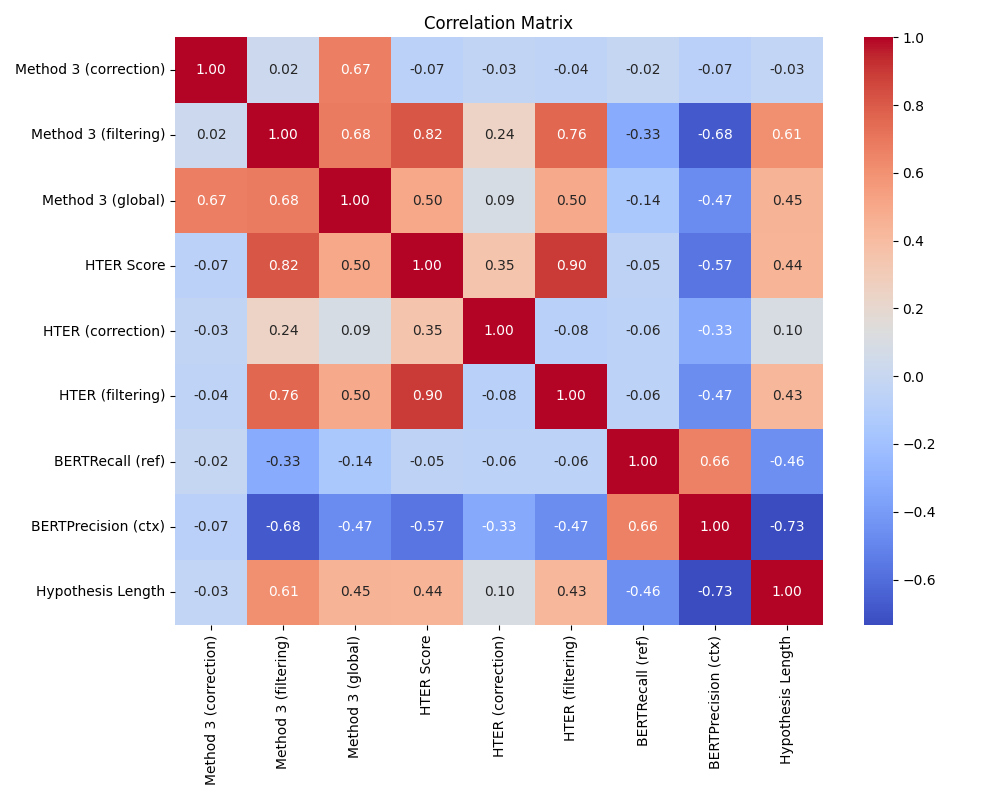
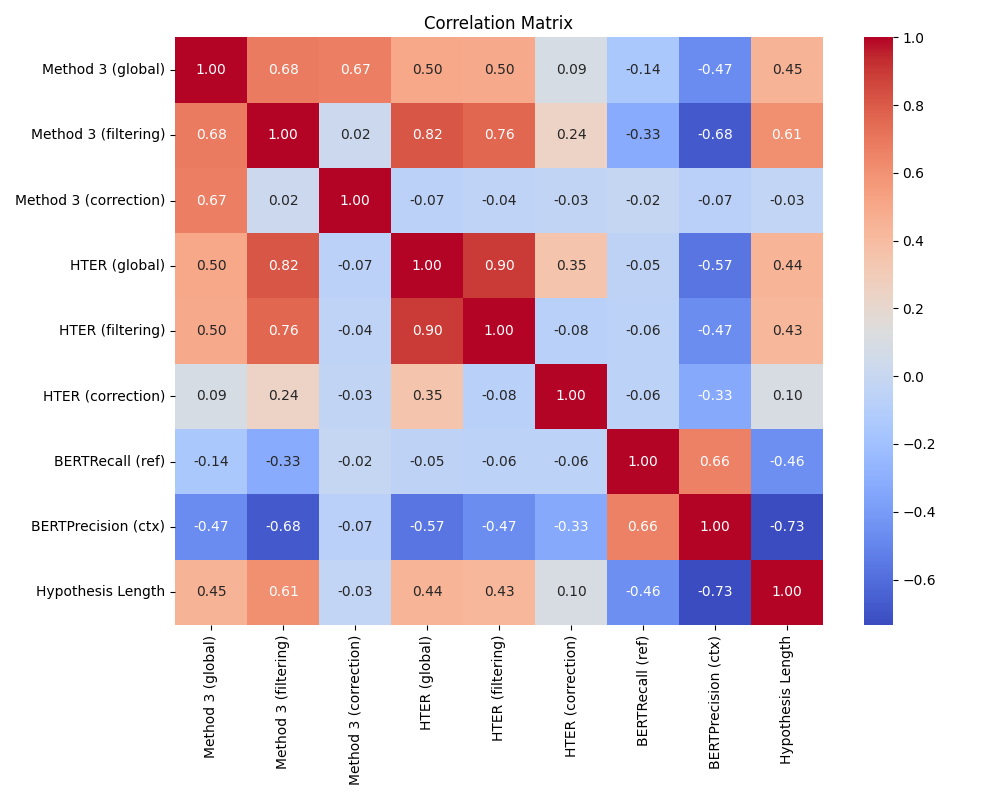
results analysis

diff --git a/src/aiter_lab/analysis/results_analysis/main.py b/src/aiter_lab/analysis/results_analysis/main.py
@@ -1,15 +1,16 @@
-from .results_analysis import scores_mean_tab, boxplot, correlation_matrix, smape_ter
+from .results_analysis import scores_mean_tab, boxplot, correlation_matrix, smape_ter, plot_error, correlation_matrix_per_col
 from ...config import DATA_DIR, RESULTS_ANALYSIS_DIR
 import pandas as pd
 
 if __name__ == "__main__":
     df = pd.read_csv(RESULTS_ANALYSIS_DIR / "method3_fullresults.csv")
+    # plot_error(df, ["score", "cor_score", "ot_score"], RESULTS_ANALYSIS_DIR / 'error_distribution_score.png')
     print(smape_ter(df, ["score", "cor_score", "ot_score"]))
     df.rename(columns={
         "score": "Method 3 (global)",
         "cor_score": "Method 3 (correction)",
         "ot_score": "Method 3 (filtering)",
-        "hter_score": "HTER Score",
+        "hter_score": "HTER (global)",
         "hter_ot_score": "HTER (filtering)",
         "hter_cor_score": "HTER (correction)",
         "bertscore_recall_ref": "BERTRecall (ref)",
@@ -19,9 +20,10 @@ if __name__ == "__main__":
     
     models = df["model_id"].unique()
 
-    score_cols = ["Method 3 (correction)", "Method 3 (filtering)", "Method 3 (global)", "HTER Score", "HTER (correction)", "HTER (filtering)"]
+    hter_cols = ["HTER (global)", "HTER (filtering)", "HTER (correction)"]
+    score_cols = ["Method 3 (global)", "Method 3 (filtering)", "Method 3 (correction)"]
     bertscore_cols = ["BERTRecall (ref)", "BERTPrecision (ctx)"]
-    cols = score_cols + bertscore_cols + ["Hypothesis Length"]
+    cols = score_cols + hter_cols + bertscore_cols + ["Hypothesis Length"]
     
     # results_path = RESULTS_ANALYSIS_DIR / "scores_analysis.csv"
     # scores_mean_tab(df, score_cols+bertscore_cols, results_path)
@@ -37,6 +39,6 @@ if __name__ == "__main__":
     #     results_path = RESULTS_ANALYSIS_DIR / f"correlation_matrix_{model}_v3.png"
     #     correlation_matrix(model_df, cols, results_path)
     
-    # corr_matrix_path = RESULTS_ANALYSIS_DIR / "correlation_matrix.png"
-    # correlation_matrix(df, cols, corr_matrix_path)
+    corr_matrix_path = RESULTS_ANALYSIS_DIR / "correlation_matrix.png"
+    correlation_matrix(df, cols, corr_matrix_path)
 

diff --git a/src/aiter_lab/analysis/results_analysis/results_analysis.py b/src/aiter_lab/analysis/results_analysis/results_analysis.py
@@ -29,6 +29,17 @@ def correlation_matrix(df, cols, output_path):
     plt.close()
     return corr_matrix
 
+def correlation_matrix_per_col(df, cols1, cols2, output_path):
+    corr_matrix = df[cols1 + cols2].corr().loc[cols1, cols2]
+    plt.figure(figsize=(10, 8))
+    sns.heatmap(corr_matrix, annot=True, fmt=".2f", cmap="coolwarm")
+    plt.title("Correlation Matrix")
+    plt.tight_layout()
+    plt.savefig(output_path)
+    plt.close()
+    return corr_matrix
+
+
 def boxplot(df, score_cols, output_path):
     num_scores = len(score_cols)
     fig, axes = plt.subplots(1, num_scores, figsize=(5 * num_scores, 6), sharey=False)
@@ -58,7 +69,7 @@ def calculate_mae(df, hter_col, aiter_col):
     mae = np.mean(np.abs(aiter - hter))
     return mae
 
-def trimmed_mae(df, hter_col, aiter_col, trim_ratio=0.2):
+def trimmed_mae(df, hter_col, aiter_col, trim_ratio=0.1):
     y_true = df[hter_col].astype(float).to_numpy()
     y_pred = df[aiter_col].astype(float).to_numpy()
     errors = np.abs(y_true - y_pred)
@@ -95,3 +106,20 @@ def smape_ter(df, cols):
             df[col].astype(float).to_numpy()
         )
     return results
+
+def plot_error(df, cols, output_path):
+    num_scores = len(cols)
+    fig, axes = plt.subplots(1, num_scores, figsize=(5 * num_scores, 6), sharey=False)
+    
+    for i, col in enumerate(cols):
+        errors = np.abs(df[f'hter_{col}'].astype(float) - df[col].astype(float))
+        sns.histplot(errors, bins=30, kde=False, ax=axes[i])
+        axes[i].set_title(f"Error distribution between {col} and HTER")
+        axes[i].set_xlabel("Absolute Error")
+        axes[i].set_ylabel("Frequency")
+        axes[i].tick_params(axis='x', rotation=45)
+    
+    plt.tight_layout()
+    plt.savefig(output_path)
+    plt.close()
+    return
